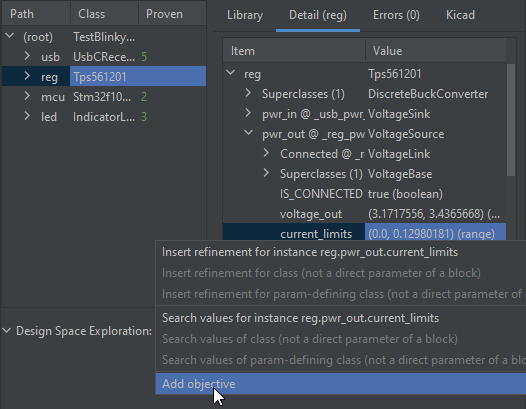
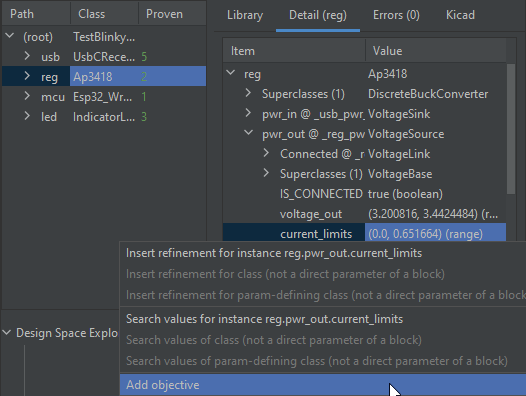
update

diff --git a/getting-started.md b/getting-started.md
@@ -295,9 +295,9 @@ Abstract blocks are useful for two reasons:
 1. It allows your design to be more general and allows you to defer implementation choices until later.
    This is more relevant for library builders, where you may want to give the system designer the choice of, for example, whether to use a surface-mount or through-hole resistor.
 2. It can help preserve design intent more precisely and keep HDL readable.
-   For example, saying that we want a voltage regulator can be more intuitive than directly instantiating a TPS561201 block.
+   For example, saying that we want a voltage regulator can be more intuitive than directly instantiating a AP3418 block.
 
-These abstract classes can be implemented by concrete subclasses, for example a TPS561201-based buck converter (high efficiency voltage converter) subcircuit.
+These abstract classes can be implemented by concrete subclasses, for example a AP3418-based buck converter (high efficiency voltage converter) subcircuit.
 Because there can be many valid options for which one can be used, the top level design actually describes a _design space_ instead of a single design point as mainstream schematic tools do.
 
 To help work with and search through this design space, we built design space exploration (DSE) into the IDE.
@@ -606,7 +606,7 @@ Recompiling in the IDE yields this block diagram:
 >     def refinements(self) -> Refinements:
 >       return super().refinements() + Refinements(
 >       instance_refinements=[
->         (['reg'], Tps561201),
+>         (['reg'], Ap3418),
 >       ])
 >   ```
 > </details>
@@ -687,7 +687,7 @@ Remember that the voltage regulator is outside the implicit scope because it tak
 >     def refinements(self) -> Refinements:
 >       return super().refinements() + Refinements(
 >       instance_refinements=[
->         (['reg'], Tps561201),
+>         (['reg'], Ap3418),
 >       ])
 >   ```
 > </details>
@@ -743,7 +743,7 @@ The tuple of blocks can be used to name inline blocks declared in the chain (whi
 >     def refinements(self) -> Refinements:
 >       return super().refinements() + Refinements(
 >       instance_refinements=[
->         (['reg'], Tps561201),
+>         (['reg'], Ap3418),
 >       ])
 >   ```
 > </details>
@@ -806,7 +806,7 @@ class BlinkyExample(SimpleBoardTop):
 >     def refinements(self) -> Refinements:
 >       return super().refinements() + Refinements(
 >       instance_refinements=[
->         (['reg'], Tps561201),
+>         (['reg'], Ap3418),
 >         (['mcu'], Esp32_Wroom_32),
 >       ],
 >       instance_values=[
